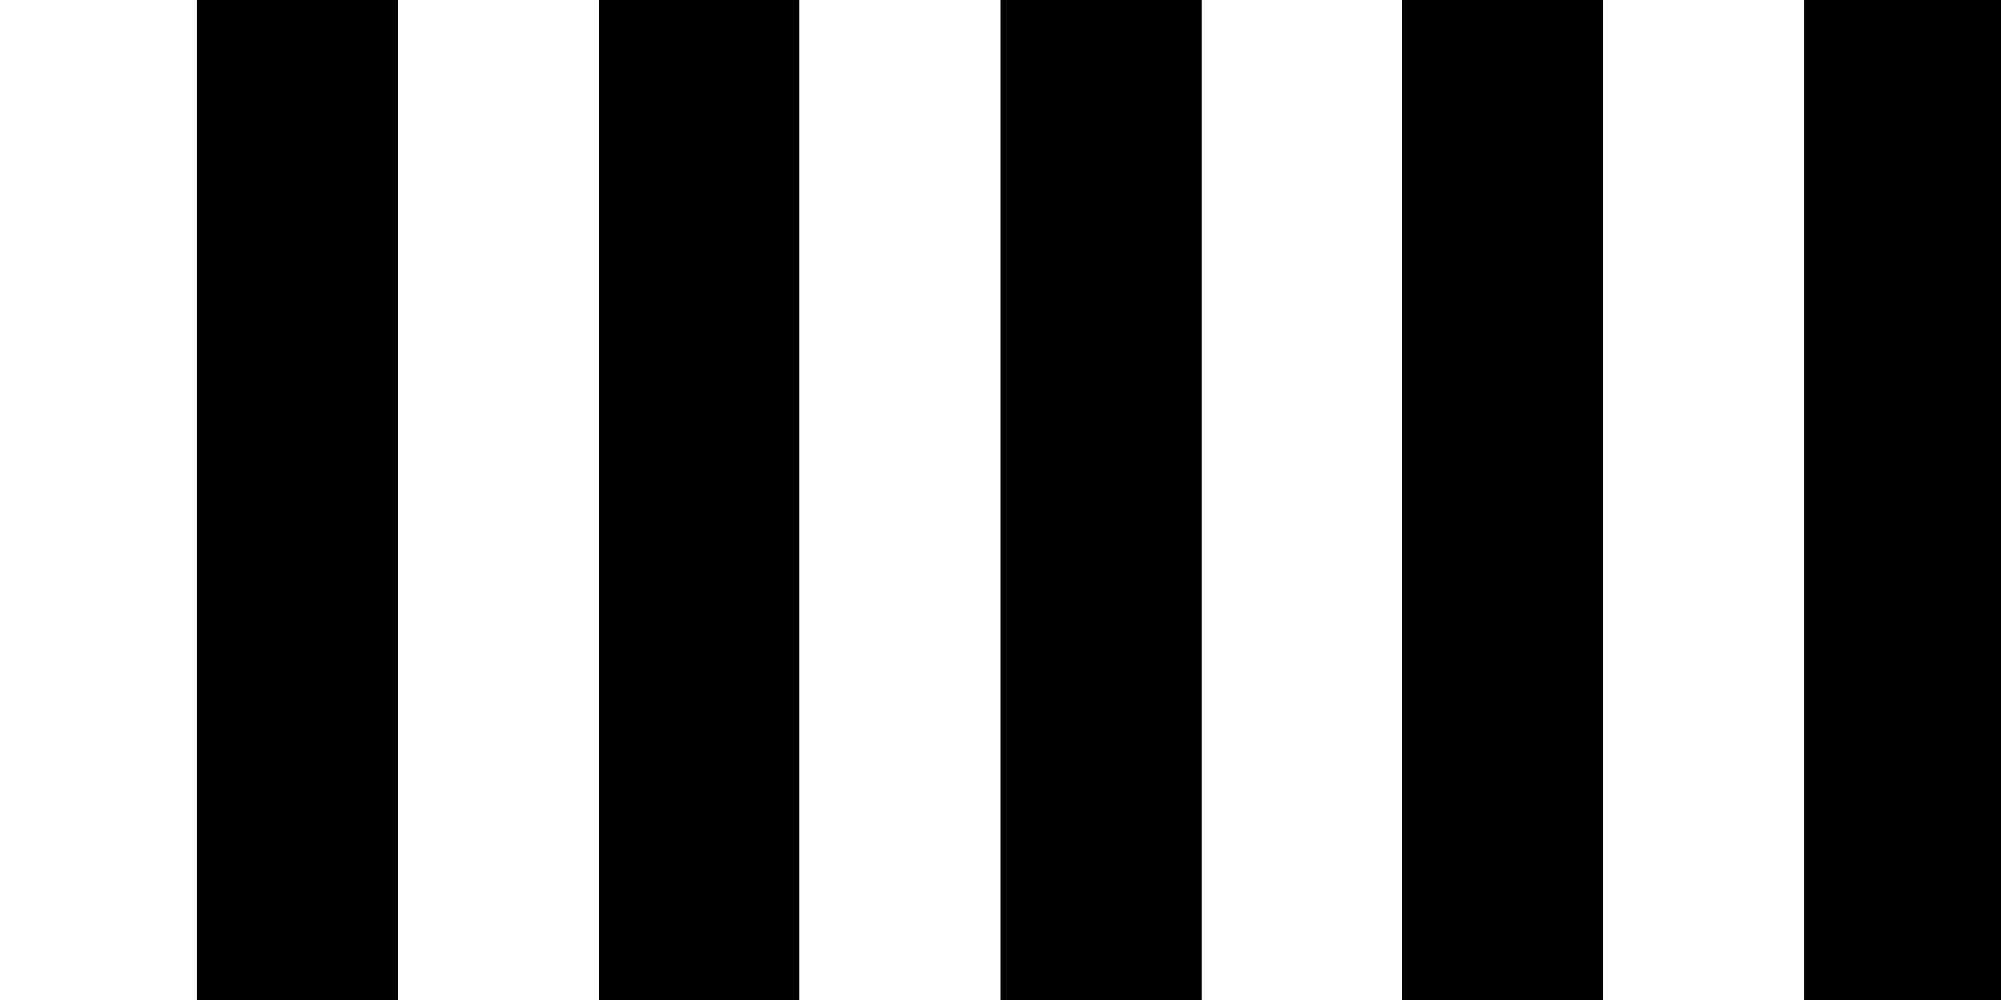
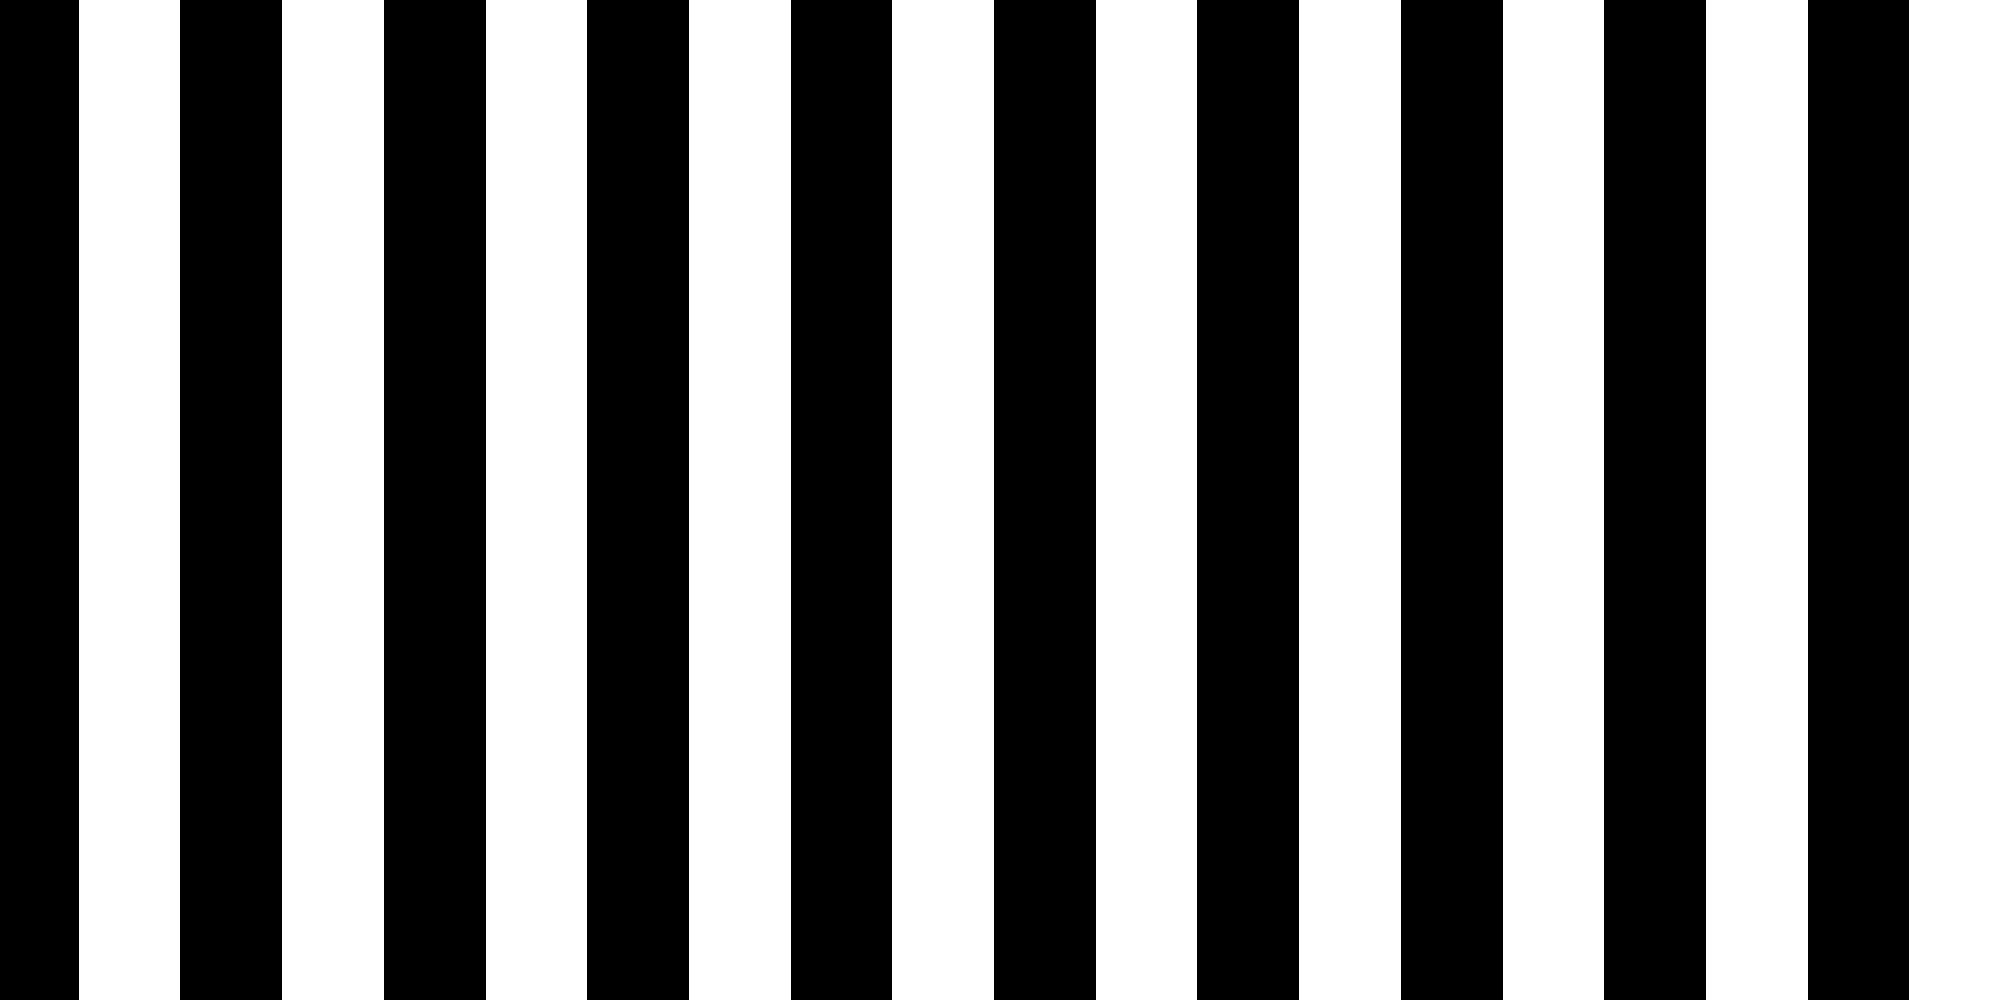
cleaned up stripes shader post

diff --git a/_posts/2017-10-03-stripes-shader.md b/_posts/2017-10-03-stripes-shader.md
@@ -85,24 +85,46 @@ Now you get this:
 
 ![UVs shader](/assets/2017-10-03-stripes-shader/uvs.png)
 
-## Zebra Crossing
+## Gradient
 
-The next step is to calculate stripes from the uvs. We will start with vertical stripes:
+With just a little change we can turn the uvs into a gradient. For this we output the x value of `i.uv`. This will give us a horizontal gradient. If you want a vertical gradient just output `i.uv.y`. The fragment shader of the horizontal gradient looks like this:
 
-![UVs shader](/assets/2017-10-03-stripes-shader/stripes1.png)
+``` c
+fixed4 frag (v2f i) : SV_Target
+{
+	return i.uv.x;
+}
+```
 
-We need to change the fragment shader:
+![UVs shader](/assets/2017-10-03-stripes-shader/gradient.png)
+
+## Tiling
+
+The next step is to add some tiling. For this we multiply the uvs by a tiling factor. For now we just hard code a tiling factor of 10. And then we perform a frac operation to let the values repeat once they reach 1:
 
 ``` c
 fixed4 frag (v2f i) : SV_Target
 {
 	float pos = i.uv.x * 10;
-	fixed value = fmod((int)pos, 2);
-	return value;
+	return frac(pos);
 }
 ```
 
-Let's see what's going on here. First we take the x value of the uvs which reaches from 0 to 1. We multiply it by the number of stripes we want to have and store it in a variable `pos`. In the next line we convert the value of `pos` into an int. This transforms the gradient we have seen in the uvs shader into steps from 0 to 9. Then we perform a modulo operation on the steps which gives us the alternating pattern.
+![UVs shader](/assets/2017-10-03-stripes-shader/tiling.png)
+
+## Zebra Crossing
+
+How do we get stripes from a gradient? Just truncate the decimals of the result of the frac operation. And also we need to add a treshold value between 0 and 1. Every value below the threshold will become 0 after the modulo and every value above will become 1. To get even stripes we set the threshold to 0.5. Later we can use this this to specify the thickness ratio of white and black stripes.
+
+``` c
+fixed4 frag (v2f i) : SV_Target
+{
+	float pos = i.uv.x * 10;
+	return floor(frac(pos) + 0.5);
+}
+```
+
+![UVs shader](/assets/2017-10-03-stripes-shader/stripes1.png)
 
 ## Tiling parameter
 
@@ -149,7 +171,7 @@ and blend between x and y:
 fixed4 frag (v2f i) : SV_Target
 {
 	float pos = lerp(i.uv.x, i.uv.y, _Direction) * _Tiling;
-	fixed value = fmod((int)pos, 2);
+	fixed value = floor(frac(pos) + 0.5);
 	return value;
 }
 ```
@@ -185,7 +207,7 @@ and in the fragment shader we blend between the two colors based on `value`:
 fixed4 frag (v2f i) : SV_Target
 {
 	float pos = lerp(i.uv.x, i.uv.y, _Direction) * _Tiling;
-	fixed value = fmod((int)pos, 2);
+	fixed value = floor(frac(pos) + 0.5);
 	return lerp(_Color1, _Color2, value);
 }
 ```
@@ -229,10 +251,9 @@ fixed4 frag (v2f i) : SV_Target
 	pos.y = lerp(i.uv.y, 1 - i.uv.x, _Direction);
 
 	pos.x += sin(pos.y * _WarpTiling * PI * 2) * _WarpScale;
-	pos.x += _WarpScale;
 	pos.x *= _Tiling;
 
-	fixed value = fmod((int)pos.x, 2);
+	fixed value = floor(frac(pos.x) + 0.5);
 	return lerp(_Color1, _Color2, value);
 }
 ```
@@ -256,12 +277,6 @@ The next line adds an offset to `pos.x` which does the warping. It's just a sine
 
 ``` c
 pos.x += sin(pos.y * _WarpTiling * PI * 2) * _WarpScale;
-```
-
-The following line adds another offset. We need this so pos1 never becomes negative. Negative values would add some artifacts to warped stripes at the origin of the pos.x-axis.
-
-``` c
-pos.x += _WarpScale;
 ```
 
 In the last line we multiply `pos.x` by the tiling parameter.
@@ -330,11 +345,10 @@ Shader "Unlit/Stripes"
 				pos.x = lerp(i.uv.x, i.uv.y, _Direction);
 				pos.y = lerp(i.uv.y, 1 - i.uv.x, _Direction);
 
-				pos.x += _WarpScale;
 				pos.x += sin(pos.y * _WarpTiling * PI * 2) * _WarpScale;
 				pos.x *= _Tiling;
 
-				fixed value = fmod((int)pos.x, 2);
+				fixed value = floor(frac(pos.x) + 0.5);
 				return lerp(_Color1, _Color2, value);
 			}
 			ENDCG
